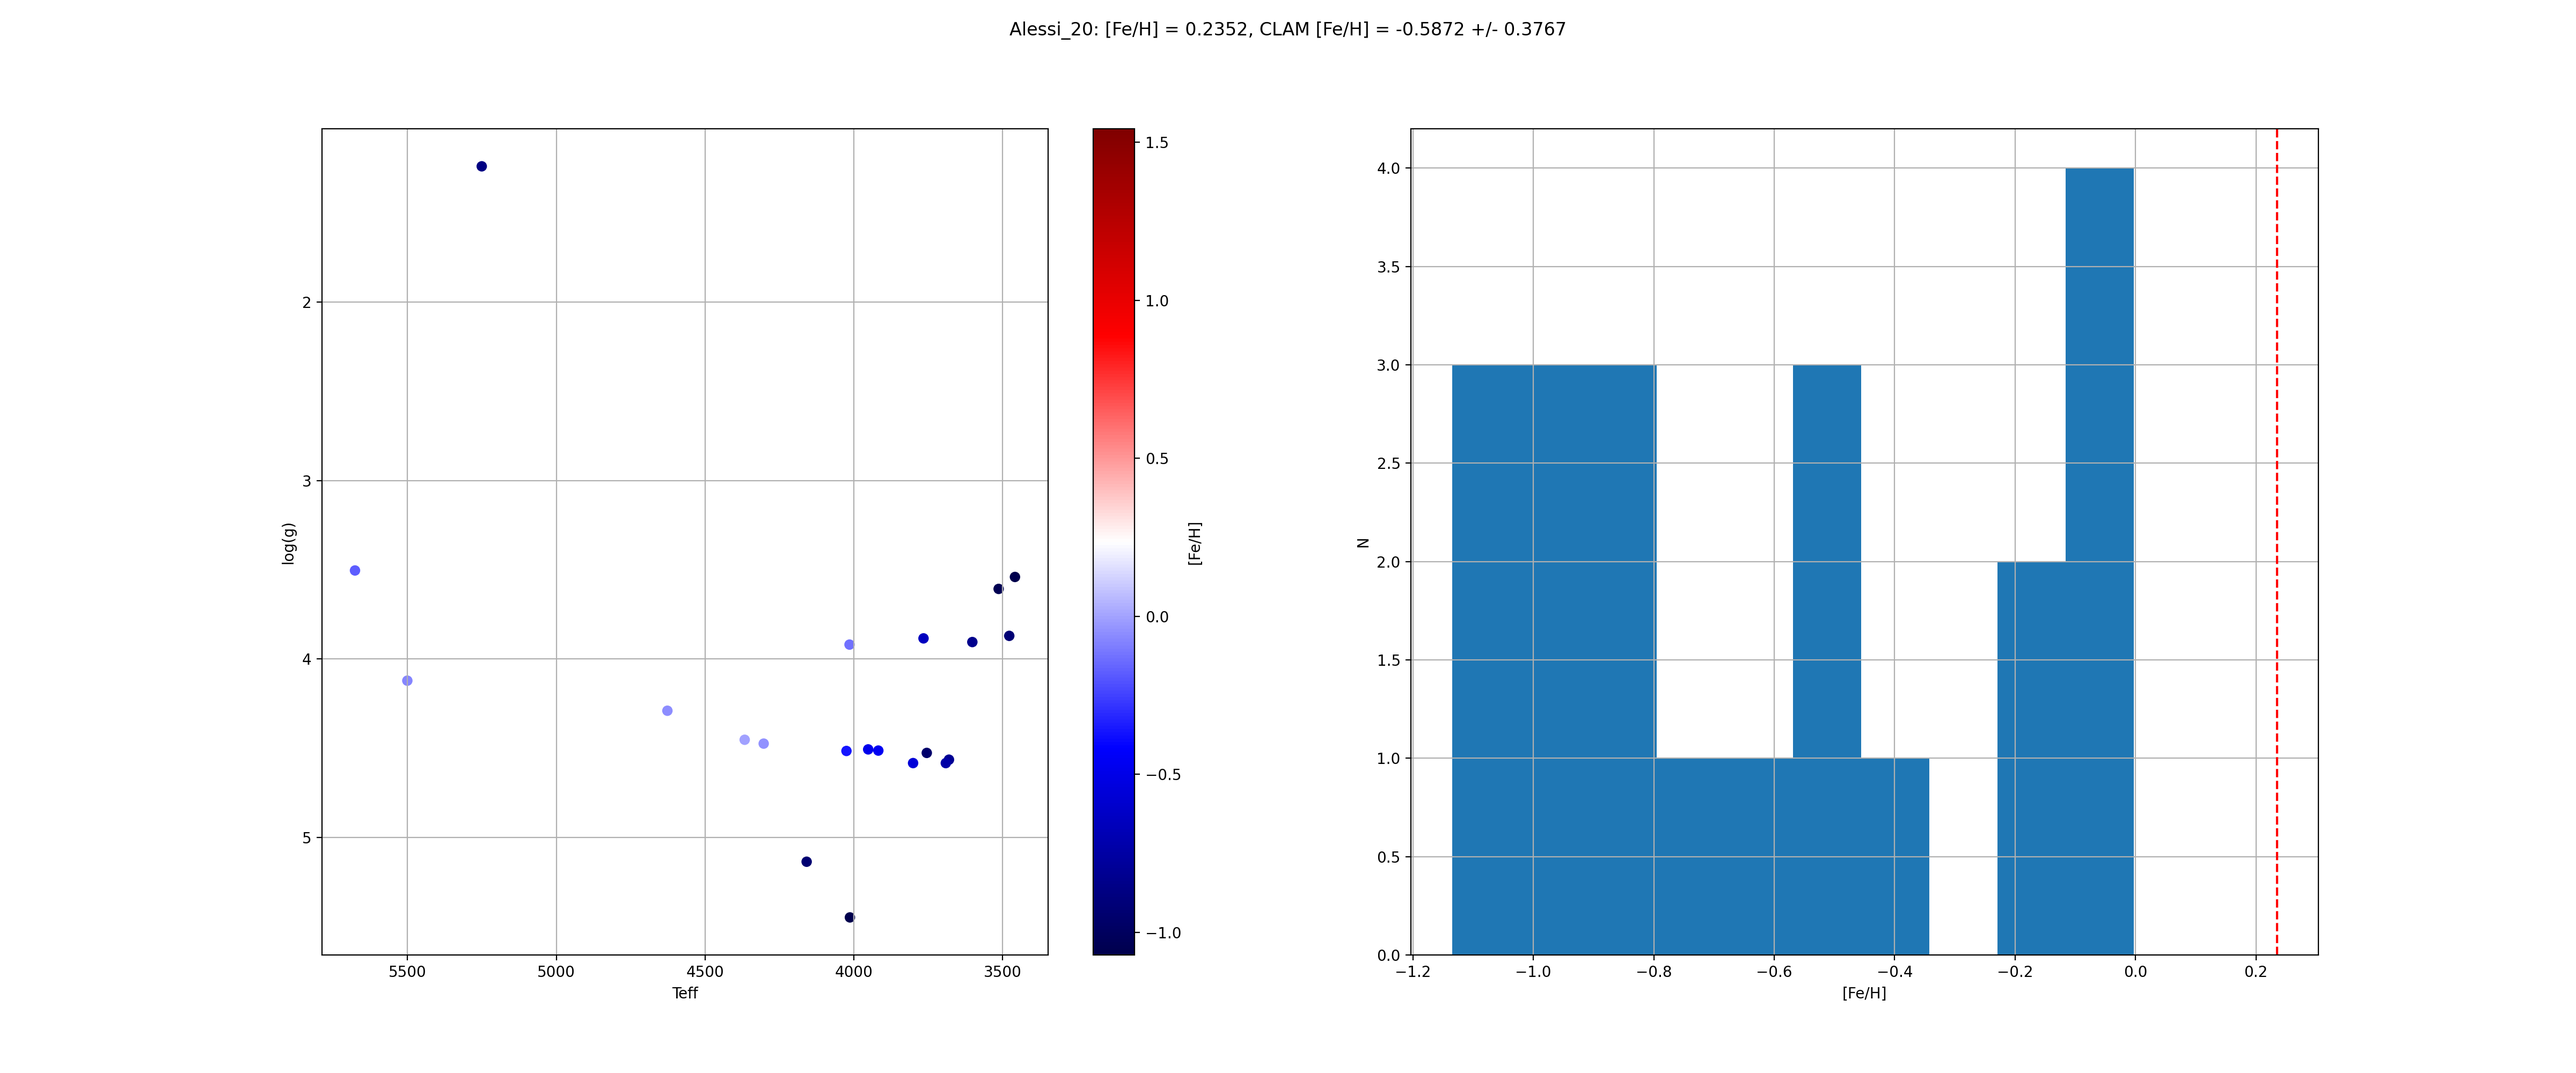
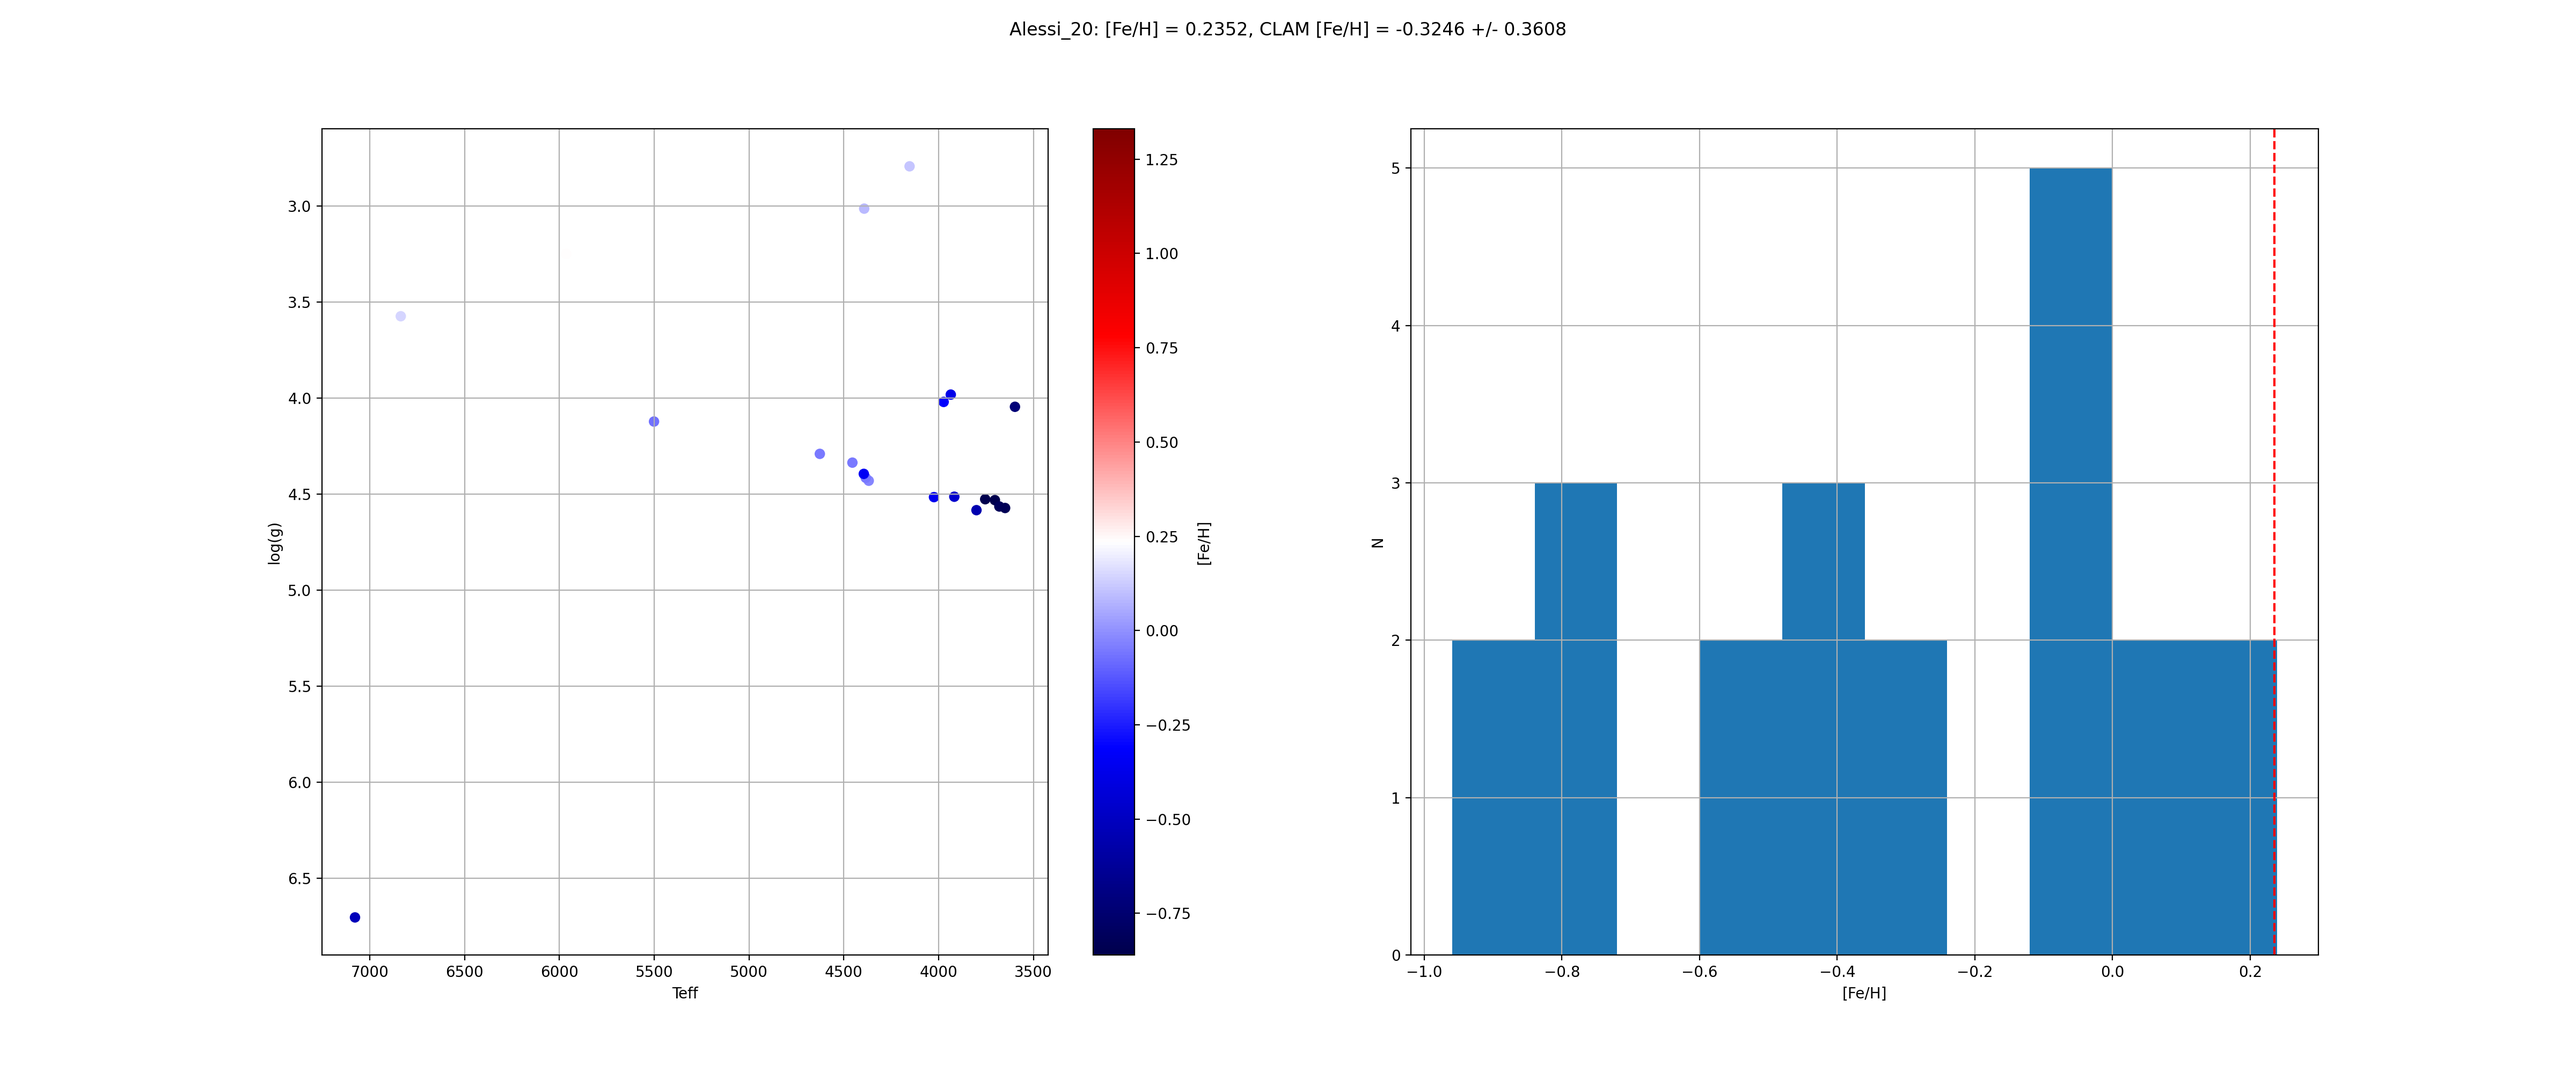
rerun clusters

diff --git a/predict_clusters.py b/predict_clusters.py
@@ -1,7 +1,9 @@
 import os
 import numpy as np
 import matplotlib.pyplot as plt
-from nmf_stellar_model_joint import infer_labels, plot_spectra_comparison
+from nmf_stellar_model_joint import (infer_labels, plot_spectra_comparison,
+                                     predict_with_ridge_npz, load_ridge_model_npz,
+                                     compute_nmf_weights)
 import warnings
 
 
@@ -53,14 +55,16 @@ def plot_cluster_results(test_inferred_labels,
     """
     f, (ax1, ax2) = plt.subplots(1, 2, figsize=(24, 10))
 
+    bad_vals = abs(test_inferred_labels[:, 2]) > 10
+
     if cluster_feh == -9999.:
         cluster_feh0 = cluster_feh
-        cluster_feh = np.nanmean(test_inferred_labels[:, 2])
+        cluster_feh = np.nanmean(test_inferred_labels[:, 2][~bad_vals])
         plot_mean = False
     else:
         cluster_feh0 = cluster_feh
         plot_mean = True
-    maxx_diff = np.nanpercentile(abs(test_inferred_labels[:, 2] - cluster_feh), 95)
+    maxx_diff = np.nanpercentile(abs(test_inferred_labels[:, 2][~bad_vals] - cluster_feh), 95)
 
     dens = ax1.scatter(test_inferred_labels[:, 0],
                        test_inferred_labels[:, 1],
@@ -75,15 +79,15 @@ def plot_cluster_results(test_inferred_labels,
     ax1.set_ylabel('log(g)')
     ax1.grid()
 
-    ax2.hist(test_inferred_labels[:, 2])
+    ax2.hist(test_inferred_labels[:, 2][~bad_vals])
     if plot_mean:
         ax2.axvline(cluster_feh, linestyle='--', c='r')
     ax2.set_xlabel('[Fe/H]')
     ax2.set_ylabel('N')
     ax2.grid()
     
-    mean = np.nanmean(test_inferred_labels[:, 2])
-    std = np.nanstd(test_inferred_labels[:, 2])
+    mean = np.nanmean(test_inferred_labels[:, 2][~bad_vals])
+    std = np.nanstd(test_inferred_labels[:, 2][~bad_vals])
     plt.suptitle(f"{cluster}: [Fe/H] = {cluster_feh0:.4f}, CLAM [Fe/H] = {mean:.4f} +/- {std:.4f}")
     plt.savefig(f"{output_dir}/{cluster}.png", dpi=200)
     plt.close()
@@ -97,7 +101,7 @@ if __name__ == '__main__':
     learning_rate = 0.01 # 0.1 is too aggressive
     print_every = 1000
 
-    convert_alpha = True
+    convert_alpha = False
     if convert_alpha:
         label_names = ['teff', 'logg', 'm_h', 'alpha_h']
         save_dir = 'nmf_joint_results_with_scatter_K32'
@@ -123,15 +127,25 @@ if __name__ == '__main__':
     label_mean = res['label_mean']
     label_std = res['label_std']
     scatter = res['scatter']
+
+    # predict from ridge model
+    model_path = f'{save_dir}/nmf_ridge_model.npz'
+    W_vals = compute_nmf_weights(flux, H)
+    init_labels = predict_with_ridge_npz(
+        W_vals,
+        load_ridge_model_npz(model_path=model_path))
+    init_labels_std = (init_labels - label_mean) / label_std
+
     # Infer labels using BFGS with grid search initialization
     test_inferred_labels = infer_labels(
         flux, ivar,
         theta, H, label_mean, label_std, scatter,
-        init_labels_std=None,  # triggers grid search
-        n_iter=1000,
-        optimizer='bfgs',
-        grid_points=10,
-        grid_range=(-5.0, 5.0)
+        init_labels_std=init_labels_std,
+        n_iter=[100, 1000],
+        learning_rate=0.01,
+        optimizer='two-stage',
+        grid_points=None,
+        grid_range=None
     )
 
     # Wavelength grid
